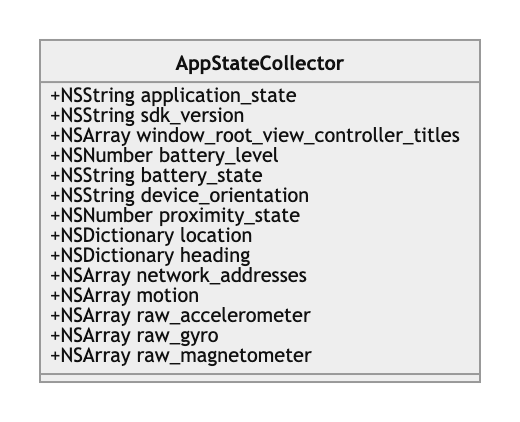
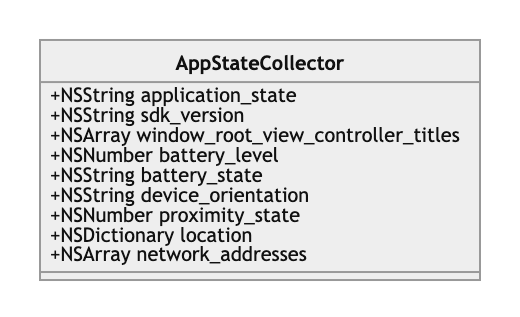
[MSUE-181]: Review and update public docs for iOS

Changed region(s): [[0.0615, 0.0852, 0.9231, 0.9085]]

diff --git a/DESIGNDOC.md b/DESIGNDOC.md
@@ -36,7 +36,7 @@
 
 ## 1 Overview
 
-The [sift-ios](https://github.com/SiftScience/sift-ios)  Mobile SDKs collect and send device information and app life cycle events to Sift. Objective C will be used as the programming language and Xcode will be used as the IDE.  SDK will be supporting ios 9.2 as deployment target.
+The [sift-ios](https://github.com/SiftScience/sift-ios)  Mobile SDKs collect and send device information and app life cycle events to Sift. Objective C will be used as the programming language and Xcode will be used as the IDE.  SDK will be supporting iOS 12 as deployment target.
 
 The specific features used are: CoreMotion, BatteryManager, Location, NetworkInterface and TelephonyManager. The SDK uses CoreMotion, BatteryManager, Location and NetworkInterface for collecting AppState details. The Device properties details are collected with the help of TelephonyManager and PackageManager along with Build details. In particular, event collecting, appending and uploading are handled on a separate thread with the help of Executors. The Mobile SDKs allow mobile applications to collect and send device properties and application lifecycle events to Sift. 
 
@@ -105,18 +105,8 @@ The iOSDeviceProperties collects the following information:
   - The sdk version indicates the current version of the sift SDK that has been used in the application.
 - **device_name** : {type: string}
   - It indicates device  name.
-- **device_model** : {type: string}
-    - The device model indicates the end-user-visible model name for the end product.
-- **device_ifa** : {type: string}
-    - Identifier for Advertisers (IFA or IDFA) is a temporary device identifier used by the Apple set of handheld devices. A successor of Unique Device Identifier (UDID), IFA is available on all devices with versions iOS 6 and later..
 - **device_ifv** : {type: string}
     - The identifierForVendor is an alphanumeric string that uniquely identifies a device to the app’s vendor..
-- **device_screen_width** : {type: integer}
-    - It indicates the device screen width.
-- **device_screen_height** : {type: integer}
-   - It indicates the device screen height.
-- **device_localized_model** : {type: string}
-    - It indicates the localized version of model.
 - **device_system_name** : {type: string}
   - It indicates the user-visible operating system name string.  Eg: iOS
 - **device_system_version** : {type: string}
@@ -127,8 +117,6 @@ The iOSDeviceProperties collects the following information:
   - It indicates the ISO country code for the user’s cellular service provider..
 - **mobile_network_code** : {type: string}
   - It indicates the mobile network code for the user’s cellular service provider.
-- **is_simulator** : {type: integer}
-  - It indicates if device is simulator or not.
 
 Class diagram of iOSDeviceProperties:
 
@@ -140,11 +128,6 @@ Class diagram of iOSDeviceProperties:
 
 The iOSAppState collects the following informations:
 
-- **application_state** : {type: string}
-  - Constants that indicate the running states of an app. 
-    - UIApplicationStateActive -> The app is running in the foreground and currently receiving events.
-    - UIApplicationStateInactive -> The app is running in the foreground but is not receiving events.
-    - UIApplicationStateBackground -> The app is running in the background.
 - **sdk_version** : {type: string}
   - The sdk version indicates the current Sift SDK version which is used.
 - **window_root_view_controller_titles** : {type: array}
@@ -157,31 +140,12 @@ The iOSAppState collects the following informations:
     - UIDeviceBatteryStateUnplugged -> on battery, discharging
     - UIDeviceBatteryStateCharging -> plugged in, less than 100%
     - UIDeviceBatteryStateFull -> plugged in, at 100%
-- **device_orientation** : {type: string}
-  - Constants that describe the physical orientation of the device.
-    - UIDeviceOrientationUnknown -> The orientation of the device cannot be determined.
-    - UIDeviceOrientationPortrait -> The device is in portrait mode, with the device held upright and the Home button at the bottom.
-    - UIDeviceOrientationPortraitUpsideDown -> The device is in portrait mode but upside down, with the device held upright and the Home button at the top.
-    - UIDeviceOrientationLandscapeLeft -> The device is in landscape mode, with the device held upright and the Home button on the right side.
-    - UIDeviceOrientationLandscapeRight -> The device is in landscape mode, with the device held upright and the Home button on the left side.
-    - UIDeviceOrientationFaceUp -> The device is held parallel to the ground with the screen facing upwards.
-    - UIDeviceOrientationFaceDown -> The device is held parallel to the ground with the screen facing downwards.
 - **proximity_state** : {type: number}
    - A Boolean value that indicates whether the proximity sensor is close to the user.
 - **location** : {type: dictionary}
   - The location consists of collective information of latitude, longitude, accuracy and the time at which data was collected as shown in the [section 3.4](#34-location). (_Have data only if the sift configuration and permissions are enabled_)
-- **heading** : {type: dictionary}
-  - The heading consists of collective information of time, magnetic heading, accuracy, true heading and raw magnetic field values was collected as shown in the [section 3.5](#35-heading).
 - **network_addresses** : {type: array}
   - The network addresses indicate the list of IP addresses of the current device in which the SDK is running. 
-- **motion** : {type: array}
-  - Encapsulated measurements of the attitude, rotation rate, and acceleration of a device was collected as shown in the [section 3.6](#36-deviceMotion).
-- **raw_accelerometer** : {type: array}
-  - Retrieve data from the onboard accelerometers of a device was collected as shown in the [section 3.7](#37-deviceAccelerometerData).
-- **raw_gyro** : {type: array}
-  - Retrieve data from the onboard gyroscopes value of a device was collected as shown in the [section 3.8](#38-deviceGyroData).
-- **raw_magnetometer** : {type: array}
-  - Measurements of the Earth's magnetic field relative to the device was collected as shown in the [section 3.9](#39-deviceMagnetometerData).
 
 Class diagram of iOSAppState:
 
@@ -215,133 +179,6 @@ The location consist of the following information:
 Class diagram for Location:
 
 ![](Images/LocationDataModel.png)
-
-###
-
-### 3.5 Heading
-
-The azimuth (orientation) of the user’s device, relative to true or magnetic north. The heading mainly collects the following information:
-
-- **time** : {type: number}
-  - It indicates the time at which this heading was determined.
-- **magnetic_heading** : {type: number}
-  - It indicates the heading (measured in degrees) relative to magnetic north.
-- **accuracy** : {type: number}
-  - It indicates the maximum deviation (measured in degrees) between the reported heading and the true geomagnetic heading.
-- **true_heading** : {type: number}
-  - The heading (measured in degrees) relative to true north.
-- **raw_magnetic_field_x** : {type: number}
-  - The geomagnetic data (measured in microteslas) for the x-axis.
-- **raw_magnetic_field_y** : {type: number}
-  - The geomagnetic data (measured in microteslas) for the y-axis.
-- **raw_magnetic_field_z** : {type: number}
-  - The geomagnetic data (measured in microteslas) for the z-axis
-
-Class diagram of Heading:
-
-![](Images/HeadingDataModel.png)
-
-###
-
-### 3.6 DeviceMotion
-
-The iosDeviceMotion mainly collects the following information:
-
-- **time** : {type: number}
-  - It indicates the time at which this motion was determined.
-- **attitude_roll** : {type: double}
-  - A roll is a rotation around a longitudinal axis that passes through the device from its top to bottom. The roll of the device, in radians.
-- **attitude_pitch** : {type: double}
-  - A pitch is a rotation around a lateral axis that passes through the device from side to side. The pitch of the device, in radians.
-- **attitude_yaw** : {type: double}
-  - A yaw is a rotation around an axis that runs vertically through the device. The yaw of the device, in radians.
-- **rotation_rate_x** : {type: number}
-  - The rotation rate of the device for the x-axis.
-- **rotation_rate_y** : {type: number}
-  - The rotation rate of the device for the y-axis.
-- **rotation_rate_z** : {type: number}
-  - The rotation rate of the device for the z-axis.
-- **gravity_x** : {type: number}
-  - The gravity acceleration vector expressed in the device's reference frame for the x-axis.
-- **gravity_y** : {type: number}
-  - The gravity acceleration vector expressed in the device's reference frame for the y-axis.
-- **gravity_z** : {type: number}
-  - The gravity acceleration vector expressed in the device's reference frame for the z-axis.
-- **user_acceleration_x** : {type: number}
-  - The acceleration that the user is giving to the device for the x-axis.
-- **user_acceleration_y** : {type: number}
-  - The acceleration that the user is giving to the device for the y-axis.
-- **user_acceleration_z** : {type: number}
-  - The acceleration that the user is giving to the device for the z-axis.
-- **magnetic_field_x** : {type: number}
-  - Returns the magnetic field vector with respect to the device for the x-axis.
-- **magnetic_field_y** : {type: number}
-  - Returns the magnetic field vector with respect to the device for the y-axis.
-- **magnetic_field_z** : {type: number}
-  - Returns the magnetic field vector with respect to the device for the z-axis.
-- **magnetic_field_calibration_accuracy** : {type: string}
-  - It Indicates the calibration accuracy of a magnetic field estimate.
-
-Class diagram of DeviceMotion:
-
-![](Images/DeviceMotionDataModel.png)
-
-###
-
-### 3.7 DeviceAccelerometerData
-
-The accelerometer data mainly collects the following information:
-
-- **time** : {type: number}
-  - It indicates the time at which this motion was determined.
-- **acceleration_x** : {type: number}
-  - The acceleration that the user is giving to the device for the x-axis.
-- **acceleration_y** : {type: number}
-  - The acceleration that the user is giving to the device for the y-axis.
-- **acceleration_z** : {type: number}
-  - The acceleration that the user is giving to the device for the z-axis.
-
-Class diagram of DeviceAccelerometerData:
-
-![](Images/DeviceAccelerometerDataModel.png)
-
-###
-
-### 3.8 DeviceGyroData
-
-The gyro data mainly collects the following information:
-
-- **time** : {type: number}
-  - It indicates the time at which this motion was determined.
-- **rotation_rate_x** : {type: number}
-  - The rotation rate of the device for the x-axis.
-- **rotation_rate_y** : {type: number}
-  - The rotation rate of the device for the y-axis.
-- **rotation_rate_z** : {type: number}
-  - The rotation rate of the device for the z-axis.
-
-Class diagram of DeviceGyroData:
-
-![](Images/DeviceGyroDataModel.png)
-
-###
-
-### 3.9 DeviceMagnetometerData
-
-The magnetometer data mainly collects the following information:
-
-- **time** : {type: number}
-  - It indicates the time at which this motion was determined.
-- **magnetic_field_x** : {type: number}
-  - Returns the magnetic field vector with respect to the device for the x-axis.
-- **magnetic_field_y** : {type: number}
-  - Returns the magnetic field vector with respect to the device for the y-axis.
-- **magnetic_field_z** : {type: number}
-  - Returns the magnetic field vector with respect to the device for the z-axis.
-
-Class diagram of DeviceMagnetometerData:
-
-![](Images/DeviceMagnetometerDataModel.png)
 
 ## 4 Modules
 

diff --git a/PROPOSETECHNICIALDESIGNDOC.md b/PROPOSETECHNICIALDESIGNDOC.md
@@ -18,7 +18,7 @@
 
 ## 1 Overview
 
-The [sift-ios](https://github.com/SiftScience/sift-ios)  Mobile SDKs collect and send device information and app life cycle events to Sift. Objective C will be used as the programming language and Xcode will be used as the IDE.  SDK will be supporting ios 9.2 as deployment target.
+The [sift-ios](https://github.com/SiftScience/sift-ios)  Mobile SDKs collect and send device information and app life cycle events to Sift. Objective C will be used as the programming language and Xcode will be used as the IDE.  SDK will be supporting iOS 12 as deployment target.
 
 The specific features used are: CoreMotion, BatteryManager, Location, NetworkInterface and TelephonyManager. The SDK uses CoreMotion, BatteryManager, Location and NetworkInterface for collecting AppState details. The Device properties details are collected with the help of TelephonyManager and PackageManager along with Build details. In particular, event collecting, appending and uploading are handled on a separate thread with the help of Executors. The Mobile SDKs allow mobile applications to collect and send device properties and application lifecycle events to Sift. 
 

diff --git a/README.md b/README.md
@@ -58,13 +58,6 @@ This will create initial files and folders including hidden `.gitignore
 (Xcode project is generated and excluded from git by default). 
 You can also use your xcconfig file: `swift package generate-xcodeproj --xcconfig-overrides Config.xcconfig`
 
-Update for Xcode 11
-
-* For Xcode 11 no need to do the above steps, you can directly open the File > Swift Packages > Add Package Dependency
-* Paste the repository's URL [https://github.com/SiftScience/sift-ios.git](https://github.com/SiftScience/sift-ios)  into the field
-above then click "next".
-* Xcode will walk you through the rest of the steps. You can `import sift_ios`.
-
 Recommended steps:
 
 * Add this to your application's `Info.plist` file:
